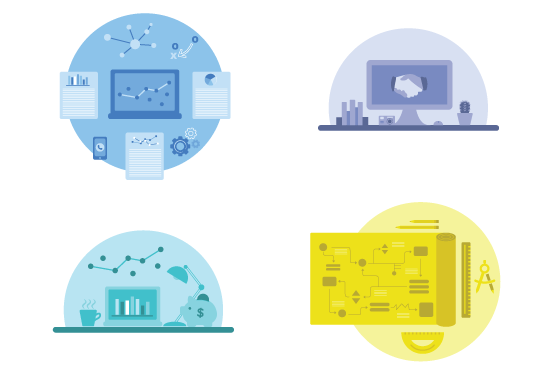
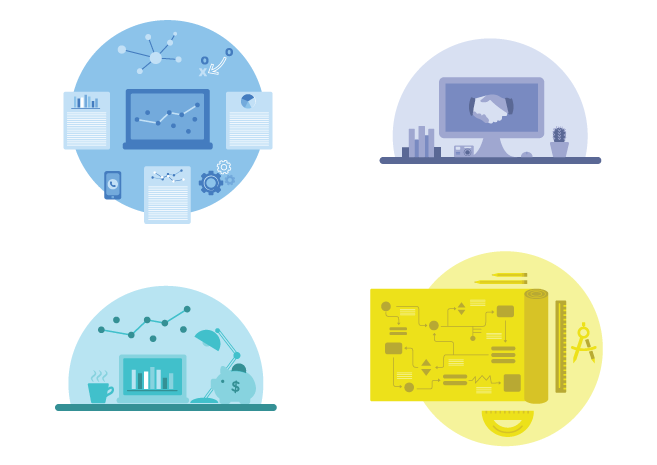
spcsite update

diff --git a/spcsite.html b/spcsite.html
@@ -279,45 +279,21 @@ $('.hmtextile').click(function(){
                                         <div style="background-color:#27a9e1; padding-bottom: 20px; padding-top: 10px;">
                                    <div class="each loadfade">
                                         <div class="pad" style="text-align: center;">
-                                        <img style="height: 70px;" src="img/homepage.png" align="center">
-                                        <h1 style="color: #ffffff; font-size:24px; text-align:center; font-family:Quicksand;">THE HOMEPAGE</h1>
+                                        <img style="height: 100px;" src="img/SPC_research.png" align="center">
+                                        <h1 style="color: #ffffff; font-size:24px; text-align:center; font-family:Quicksand;">RESEARCH & DEVELOPMENT</h1>
                                      </div>
                                     </div></div>
                                     
                                     <div style="padding-bottom: 50px;"></div>
                                     
-                                    <div><div><div><div>
-                                    <div class="each loadfade" style="padding-top: 20px;">
-                                        <div class="pad"><img src=
-                                        "img/Homepage_explained.png"></div>
-                                    
-                                    </div></div></div></div>
-                                    
-                                    <div style="background-color:#27a9e1; padding-bottom: 20px; padding-top: 10px;">
-                                   <div class="each loadfade">
-                                        <div class="pad" style="text-align: center;">
-                                        <img src="img/SPC_personalization.png" align="center">
-                                        <h1 style="color: #ffffff; font-size:24px; text-align:center; font-family:Quicksand;">PERSONALIZATION</h1>
-                                     </div>
-                                    </div></div>
-                                    
-                                    <div style="padding-bottom: 50px;"></div>
-                                    
-                                    <div style= "width: 100%" class="each loadfade">
-                                        <div class="pad" style="text-align: center;">
-                                        <img src="img/SPC_affprogram.png" align="center" style="width:100%;">
-                                        </div></div>
-                                    
-                                    <div style="width:40%; background-color: #27a9e1;">
-                                      <h1 style="color: #ffffff; font-size:24px; 
-                                    font-family:Quicksand; padding-left:10px;">PERSONA: A</h1>
-                                    </div>
-                                    
-                                    <div style="padding-bottom: 30px;"></div>
-                                    
-                        <div class="container">
+                                     <div class="container">
                             <div class="inner">
                                 <div class="wrap">
+                                
+                                <div class="each loadfade">
+                                        <div class="pad">
+                                          <p style="color:#4B4B4B; font-size:16px; font-family:Roboto; font-weight:300;"> I worked with SPC's marketing director to determine that there are two groups of people that visit the site: people who already have an affiliate program, and people who don't and might not have a lot of information. We made two personas from these groups. Instead of initially brainstorming content for the homepage, we thought about the menu buttons, then the rest of the links to important content we would want people to see. Using our personas, we determined that we wanted two different portals catered to the needs of the groups we wanted to serve. We wanted to highlight things we wanted them to explore, our different services, and calls to action. </p>
+                                        </div>
                                 
                                     <div class="each med aa loadfade">
                                         <div class="pad"><img src=
@@ -326,44 +302,142 @@ $('.hmtextile').click(function(){
                                     
                                     <div class="each med bb loadfade">
                                         <div class="pad"><img src=
-                                        "img/SPC_currentprogram2.jpg">
+                                        "img/SPC_personaB.png">
                                      </div>
                                     </div>
-                                    <div style="padding-bottom: 30px;"></div>
                                     
-                                    </div></div></div>
+                                    <div class="each loadfade">
+                                        <div class="pad"><img src=
+                                        "img/SPC_buttonmap.png">
+                                     </div>
+                                  </div>
                                     
-                                     <div style="padding-bottom: 50px;"></div>
-                                     
-                                     <div style= "width: 100%" class="each loadfade">
-                                        <div class="pad" style="text-align: center;">
-                                        <img src="img/SPC_affprogramnew.png" align="center" style="width:100%;">
-                                        </div></div>
                                     
-                                    <div style="width:40%; background-color: #27a9e1;">
-                                    <h1 style="color: #ffffff; font-size:24px; 
-                                    font-family:Quicksand; padding-left:10px;">PERSONA: B</h1>
+                                  </div></div></div></div>
+                                  
+                                  <div style="width:40%; background-color: #27a9e1;">
+                                      <h1 style="color: #ffffff; font-size:24px; 
+                                    font-family:Quicksand; padding-left:10px;">PATTERNS & UI</h1>
                                     </div>
                                     
                                     <div style="padding-bottom: 30px;"></div>
                                     
-                                    <div class="container">
+                        <div class="container">
                             <div class="inner">
                                 <div class="wrap">
-                               
+                                
+                                <div class="each loadfade">
+                                        <div class="pad">
+                                          <p style="color:#457cbf; font-size:32px; font-family:Lato; font-weight:100;"> 
+                                          MAIN TITLE... Uppercase Lato Light</p>
+                                          <p style="color:#457cbf; font-size:26px; font-family:Lato; font-weight:300;"> 
+                                          Subheader/CTA... Lato Regular</p>
+                                          <p style="color:#457cbf; font-size:20px; font-family:Lato; font-weight:100;"> 
+                                          Paragraph... Lato Light</p><br>
+                                        </div>
+                                
+                                	<div class="each loadfade">
+                                        <div class="pad"><img src=
+                                        "img/SPC_colors.png">
+                                     </div>
+                                  </div>
+                                
+                                	<div class="each loadfade">
+                                        <div class="pad">
+                                          <p style="color:#4B4B4B; font-size:16px; font-family:Roboto; font-weight:300; text-align:center;"> SPC colors are used when referencing the company as a whole, but each color coordinates with a specific program that is offered. 
+Different hues and shades are used from there. </p>
+                                        </div>
+                                
+                                	<div class="each loadfade">
+                                        <div class="pad"><img src=
+                                        "img/SPC_colors2.png">
+                                     </div>
+                                  </div>
+                                
+                                	<div class="each loadfade">
+                                        <div class="pad">
+                                          <p style="color:#4B4B4B; font-size:16px; font-family:Roboto; font-weight:300; text-align:center;"> The colors were used in illustrations for each program to give them a seperate identity yet still cohesive with the Schaaf-PartnerCentric brand. </p>
+                                        </div></div>
+                                        
+                                        <div class="each loadfade">
+                                        <div class="pad"><img src=
+                                        "img/SPC_illustrations.png">
+                                     </div>
+                                  </div>
+                                
+                                </div></div></div></div>
+                                    
+                                    <div style="background-color:#27a9e1; padding-bottom: 20px; padding-top: 10px;">
+                                   <div class="each loadfade">
+                                        <div class="pad" style="text-align: center;">
+                                        <img style="height: 70px;" src="img/homepage.png" align="center">
+                                        <h1 style="color: #ffffff; font-size:24px; text-align:center; font-family:Quicksand;">THE HOMEPAGE</h1>
+                                     </div>
+                                    </div></div>
+                                    
+                                    
+                                    <div style="padding-bottom: 50px;"></div>
+                              
+                                    
+                        <div class="container">
+                            <div class="inner">
+                                <div class="wrap">
+                                
+                                
+                                <div class="each loadfade">
+                                        <div class="pad">
+                                          <p style="color:#4B4B4B; font-size:16px; font-family:Roboto; font-weight:300; text-align:center;"> Taking the original button diagram, sections and content were created and put into a wireframe. The final was then created with additional icons and photos. </p>
+                                        </div></div>
+                                        
+                                        <div class="each loadfade">
+                                        <div class="pad" style="text-align: center"><img style="width: 50%;" src=
+                                        "img/SPC_key.png">
+                                     </div>
+                                  </div>
+                                
+                                <div style="padding-bottom: 50px;"></div>
+                                
                                     <div class="each med aa loadfade">
                                         <div class="pad"><img src=
-                                        "img/SPC_personaB.png"></div>
+                                        "img/SPC_wireframe.png"></div>
                                     </div>
                                     
                                     <div class="each med bb loadfade">
                                         <div class="pad"><img src=
-                                        "img/SPC_newprogram2.jpg">
+                                        "img/SPC_final.png">
                                      </div>
                                     </div>
                                     <div style="padding-bottom: 30px;"></div>
+                                    
                                     </div></div></div>
                                     
+                                     <div style="background-color:#27a9e1; padding-bottom: 20px; padding-top: 10px;">
+                                   <div class="each loadfade">
+                                        <div class="pad" style="text-align: center;">
+                                        <img src="img/SPC_personalization.png" align="center">
+                                        <h1 style="color: #ffffff; font-size:24px; text-align:center; font-family:Quicksand;">PERSONALIZATION</h1>
+                                     </div>
+                                    </div></div>
+                                    <div class="container">
+                            		<div class="inner">
+                                	<div class="wrap">
+                            
+                                    <div style="padding-bottom: 50px;"></div>
+                                    
+                                    <div class="each med aa loadfade">
+                                        <div class="pad"><img src=
+                                        "img/SPC_AffiliateAndy.png"></div>
+                                    </div>
+                                    
+                                    <div class="each med bb loadfade">
+                                        <div class="pad"><img src=
+                                        "img/SPC_NewbieNora.png">
+                                     </div>
+                                    </div>
+                                    
+                                    
+                                   </div></div></div>
+                                   <!--
                                     <div style="background-color:#27a9e1; padding-bottom: 20px; padding-top: 10px;">
                                    <div class="each loadfade">
                                         <div class="pad" style="text-align: center;">
@@ -395,7 +469,7 @@ $('.hmtextile').click(function(){
                                         <div class="pad" style="padding-left:10px; color: #4E4D4D; font-size:16px; font-family:Roboto; font-weight:300;"><p>Case studies are used to showcase the value SPC has brought to their clients. The case study pages to be used online had to be clean and to the point, but still able to have enough points of interest.  </p></div>
                                     </div>
                                     
-                                   </div></div></div>
+                                   </div></div></div> -->
                                     
                                      <!--<div style="padding-bottom: 50px;"></div>
                                     
